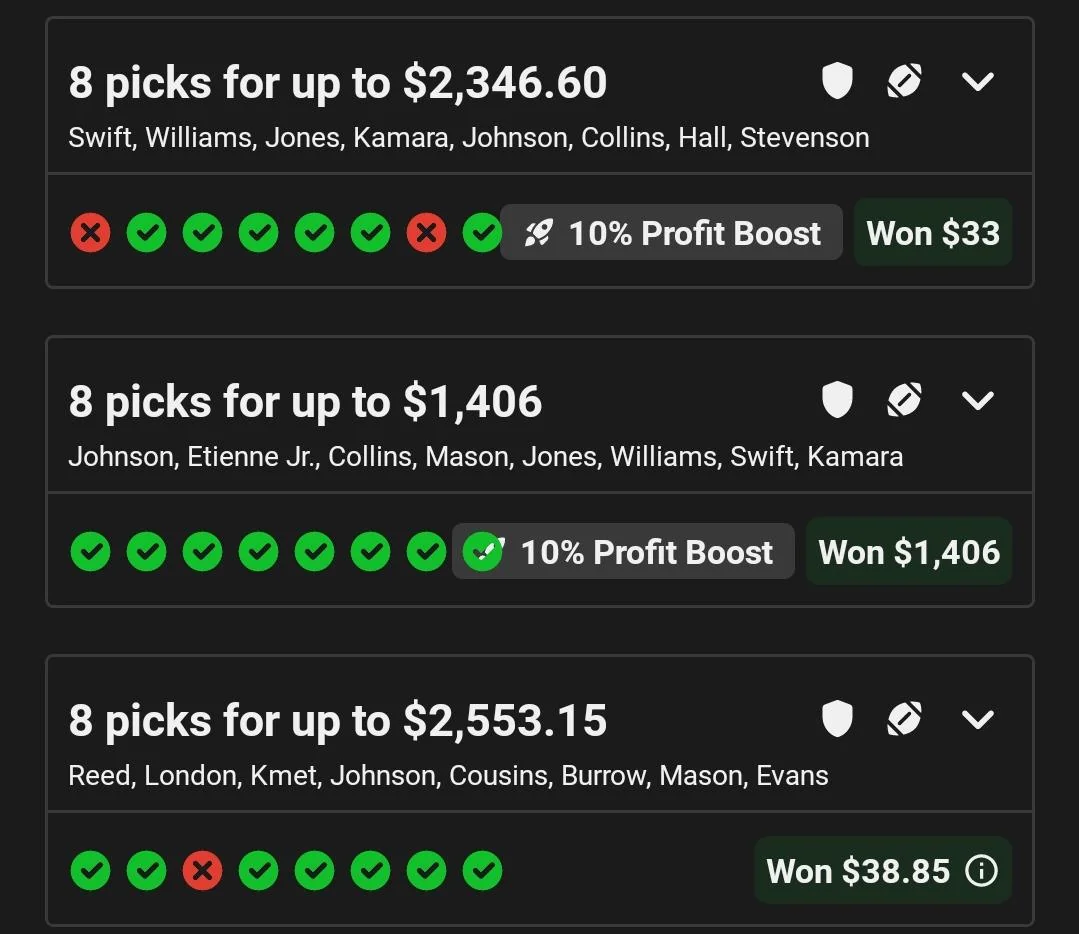
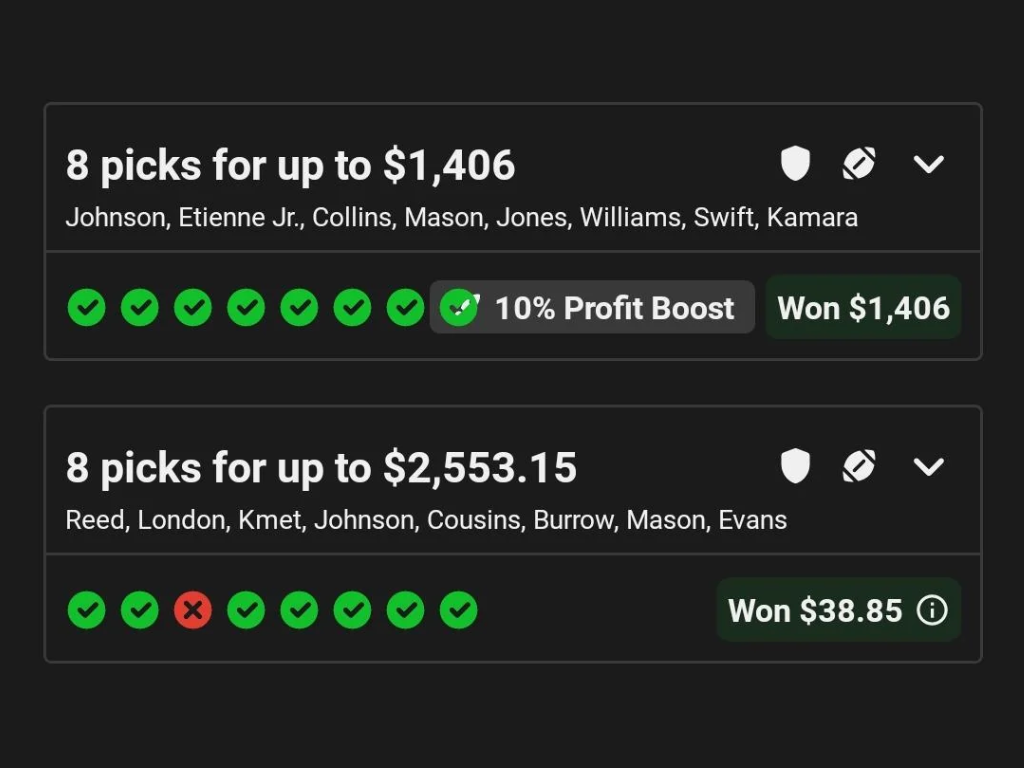
Swap Underdog card to the cleaner two-entry "Won $1,406" slip
Replaced the Underdog image with the cleaner two-entry view (8 picks -> Won
$1,406, 8 picks -> Won $38.85); updated dims to 1024x768 (4:3, fills the card).

diff --git a/lib/betslips.ts b/lib/betslips.ts
@@ -48,8 +48,8 @@ export const BET_SLIPS: BetSlip[] = [
     clv: "+2.7%",
     image: "/slips/underdog-win.png",
     imageAlt: "Underdog 8-pick entries marked Won, with profit boosts",
-    imageW: 1079,
-    imageH: 934,
+    imageW: 1024,
+    imageH: 768,
   },
   {
     book: "kalshi",